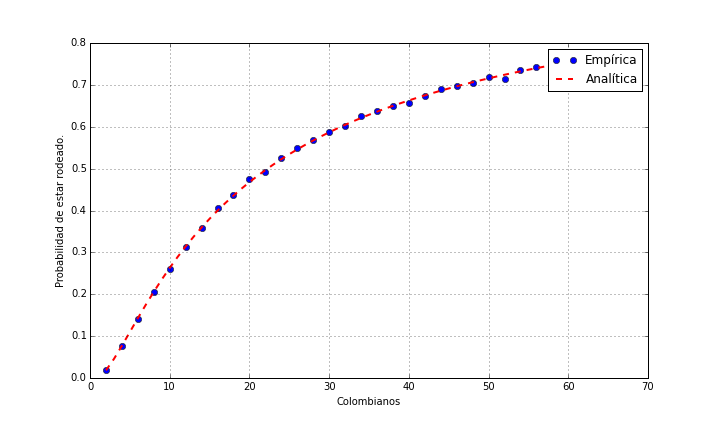
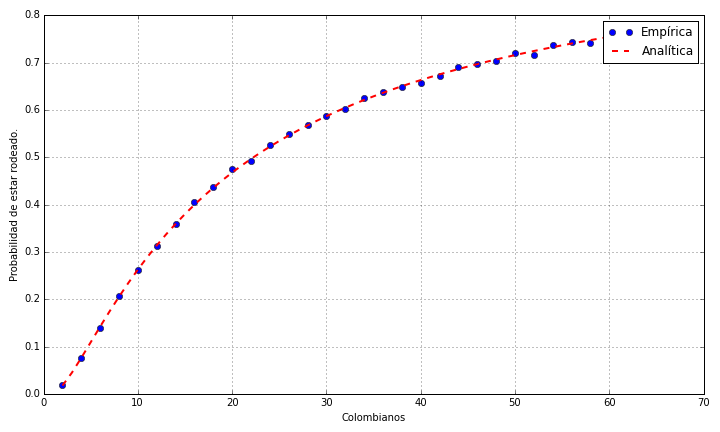
El décimoquinto HandsOn.

diff --git a/hands_on/HandsOn-15.md b/hands_on/HandsOn-15.md
@@ -1,0 +1,9 @@
+
+ # Hands-On 15
+*14-Jul-2015*
+
+## Métodos de Monte Carlo
+
+1. En una mesa redonda se sientan 10 peruanos y N colombianos, calcule usando un experimento computacional la probabilidad de que cualquier peruano se encuentre sentado entre un par de colombianos en función del número de colombianos presentes en la reunión. Haciendo cálculo de probabilidades determine la probabilidad de tales eventos y compare los dos resultados en una sola gráfica.
+
+![](https://raw.githubusercontent.com/ComputoCienciasUniandes/MetodosComputacionales/master/hands_on/figures/frontera.png? raw=true =200x).
